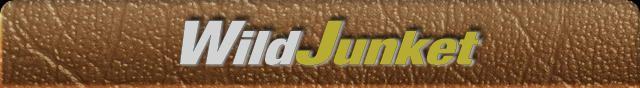
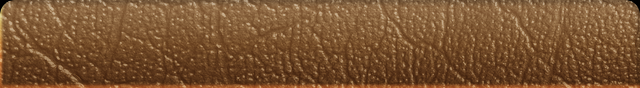
Done! apañada la imagen de navigation para mostrar el titulo independiente

Changed region(s): [[0.2812, 0.1591, 0.7812, 0.7727]]

diff --git a/WildJunket/RSSTableViewController.m b/WildJunket/RSSTableViewController.m
@@ -18,6 +18,7 @@
 #import "RSSCell.h"
 #import <SDWebImage/UIImageView+WebCache.h>
 #import <QuartzCore/CAGradientLayer.h>
+#import <QuartzCore/QuartzCore.h>
 
 @interface RSSTableViewController ()
 
@@ -215,7 +216,16 @@
     [[UIApplication sharedApplication] setStatusBarHidden:NO withAnimation:UIStatusBarAnimationSlide];
     
     [super viewDidLoad];    
-    //self.title = @"WildJunket";
+   
+    //Title status bar
+    
+    CALayer *sublayer = [CALayer layer];
+    sublayer.contents = (id) [UIImage imageNamed:@"wj_title.png"].CGImage;
+    
+    sublayer.frame = CGRectMake(0, 0, 320, 44);
+    
+    [self.navigationController.navigationBar.layer addSublayer:sublayer];
+    
     self.allEntries = [NSMutableArray array];
     self.queue = [[[NSOperationQueue alloc] init] autorelease];
     self.feeds = [NSArray arrayWithObjects:@"http://feeds.feedburner.com/wildjunket",nil];    

diff --git a/WildJunket/RSSFeedWebViewControler.m b/WildJunket/RSSFeedWebViewControler.m
@@ -61,7 +61,7 @@
                 mailer.navigationBar.tintColor = [UIColor colorWithRed:140.0/255.0 green:98.0/255.0 blue:57.0/255.0 alpha:1.0];
                 [mailer.navigationBar setClearsContextBeforeDrawing:YES];
                 
-                [mailer setSubject:@" "];
+                [mailer setSubject:@"WildJunket cool article"];
                 
                 NSString *emailBody = [[[[[@"Woow check out this article from WildJunket.com:\n" stringByAppendingString:@"<a href=\""] stringByAppendingString:self.entry.articleUrl] stringByAppendingString:@"\">"] stringByAppendingString:self.entry.articleTitle] stringByAppendingString:@"</a>"];
                 
